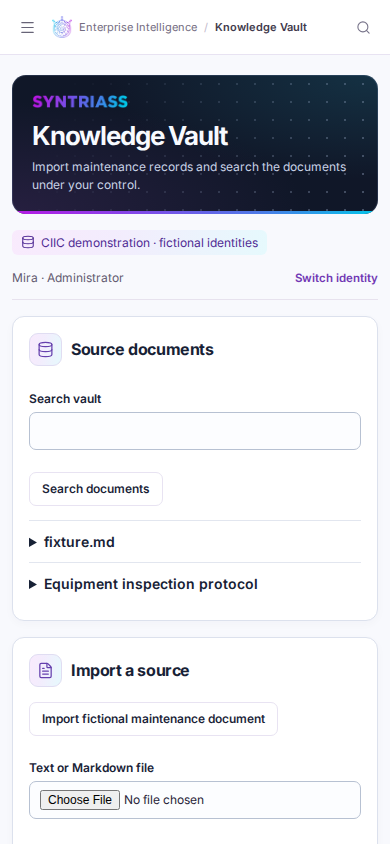
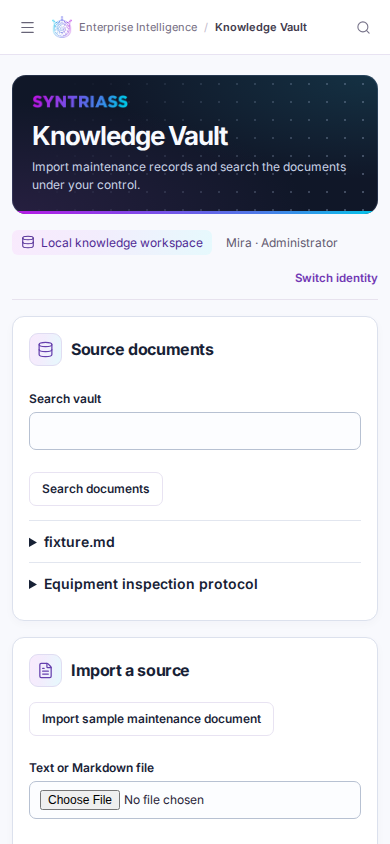
Refresh enterprise intelligence screenshots and seven-page presenter guide

Changed region(s): [[0.0923, 0.2773, 0.8615, 0.3389], [0.2154, 0.8318, 0.6769, 0.8626], [0.0308, 0.3081, 0.0923, 0.3389]]

diff --git a/docs/CIIC_DEMO_GUIDE.md b/docs/CIIC_DEMO_GUIDE.md
@@ -21,6 +21,20 @@ Open **http://127.0.0.1:8787/intelligence-overview** on the same computer. The U
 
 For a locally controlled evaluation, omit `--demo-personas`. The launcher uses a separate `enterprise/` database and prints separate ephemeral pairing keys. Distribute each key only to its assigned operator. In either mode the inherited security dashboard has its own demo session and live-data boundary. To select an installed local Ollama model, append `--model YOUR_LOCAL_TAG` and choose **Local Ollama** in the workspace. Initial dependency installation requires network access. The deterministic route requires no model download.
 
+## What to say on each Enterprise Intelligence page
+
+Open with “I’ll show you how a maintenance record becomes an answer an employee can check, and how a gap in that record becomes a procedure a second employee can use.”
+
+| Page in sidebar order | What to show and say |
+| --- | --- |
+| Intelligence Overview | “Select a source document. We can see who imported it, how many approved versions came from it, and how often those versions were used to answer a question.” |
+| Knowledge Vault | “Here is the original inspection protocol. An administrator can import a text or Markdown file. We can open the record, read the source, and check who imported it and its SHA-256 fingerprint.” |
+| Private AI Workspace | “When should we inspect the cooling assembly? The answer is every 200 operating hours, and here is the document it came from. Now I’ll ask which register records the handover. That detail is missing, so AIRON abstains.” |
+| Expert Teach | “The expert proposes the handover procedure, links the source and adds a supporting reference. A separate reviewer checks the change and decides whether to activate it.” |
+| Institutional Memory | “A second employee can now ask the handover question. This page shows the approved answer, its version, the expert, the reviewer and the reuse count. An administrator can export the knowledge.” |
+| Sovereign Runtime | “Let’s check what is running on this computer. The probe reports local database size, service CPU time and availability of the configured Ollama model. This walkthrough uses the source-excerpt engine.” |
+| Trust & Evidence | “Here we can follow the handover question from abstention to approval and release of an answer. Each event shows the actor, time and details. These are local application records. The AIP verification button opens the separate execution-evidence verifier.” |
+
 ## Five-minute presentation
 
 | Time | Presenter action | Evidence to show |
